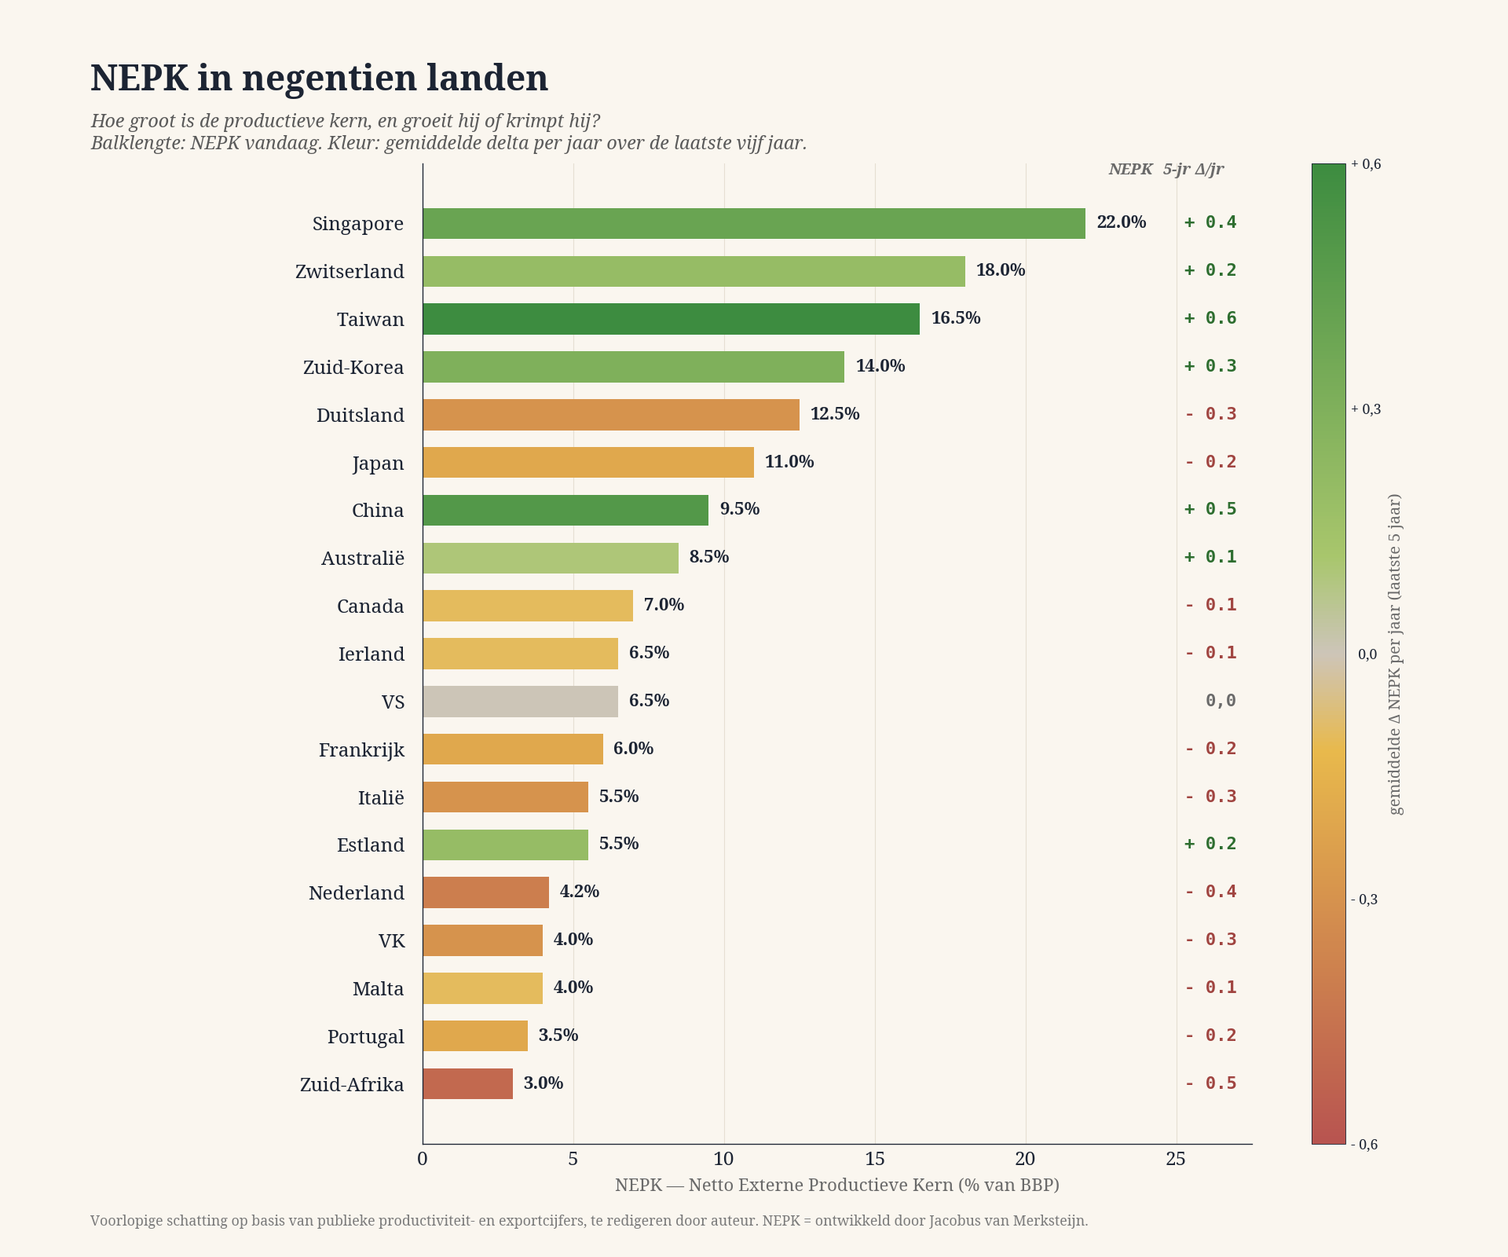
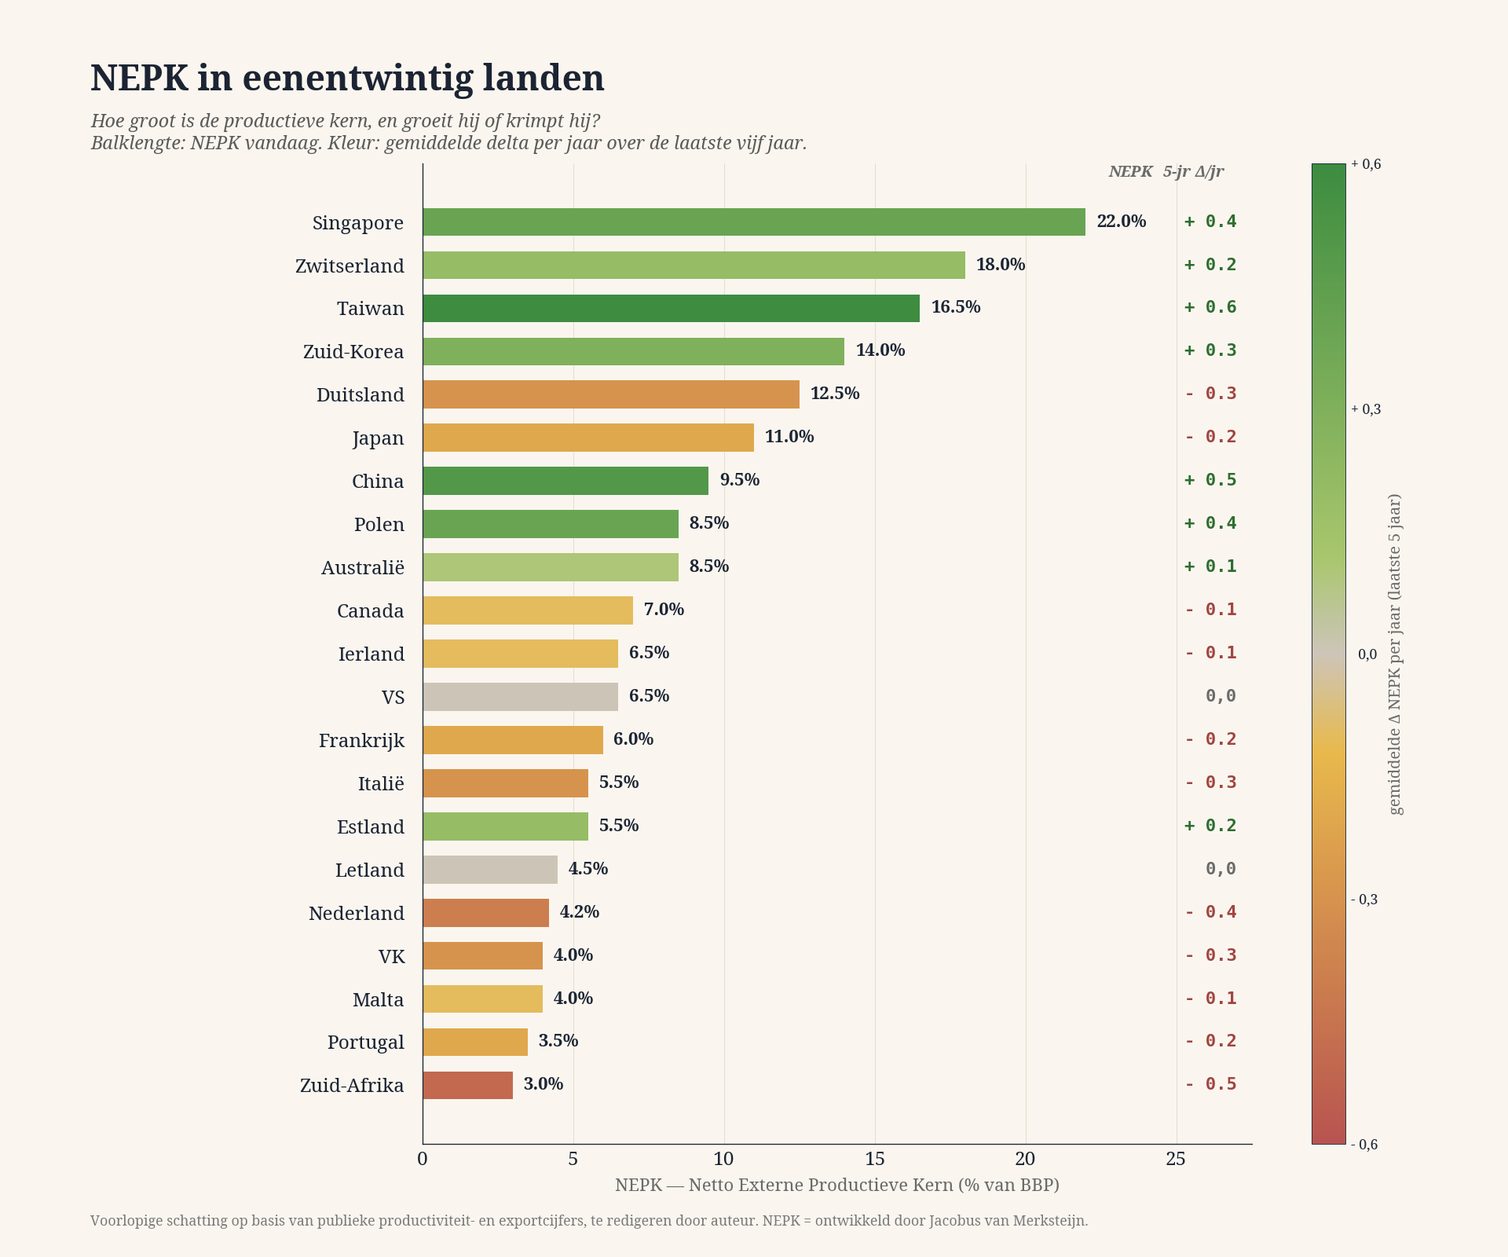
Bern-artikel: +Polen +Letland in grafiek (21 landen), nieuwe sectie Balkenende-norm en ministers werven uit maatschappij

diff --git a/preview/editie-5/nl/artikel-06-zeven-van-bern.html b/preview/editie-5/nl/artikel-06-zeven-van-bern.html
@@ -4,7 +4,7 @@
   <meta charset="UTF-8">
   <meta name="viewport" content="width=device-width, initial-scale=1.0">
   <title>De zeven van Bern — Het Open Vizier · Editie 5 — Juli 2026</title>
-  <meta name="description" content="Een collegiale democratie als sluitsteen — wat Zwitserland in 1848 deed wat wij hadden kunnen overnemen, en wat de NEPK-cijfers van negentien landen ervan laten zien.">
+  <meta name="description" content="Een collegiale democratie als sluitsteen — wat Zwitserland in 1848 deed wat wij hadden kunnen overnemen, en wat de NEPK-cijfers van eenentwintig landen ervan laten zien.">
   <meta name="robots" content="noindex, nofollow">
   <link rel="stylesheet" href="../../../assets/style.css">
   <link rel="stylesheet" href="../assets/style-editie5.css">
@@ -67,7 +67,7 @@
   <div class="slide__text">
     <span class="slide__tag">Editie 5 — Juli 2026 · 06</span>
     <h2 class="slide__heading">De zeven van Bern</h2>
-    <p class="slide__lead">Een collegiale democratie als sluitsteen — wat Zwitserland in 1848 deed wat wij hadden kunnen overnemen, en wat de NEPK-cijfers van negentien landen ervan laten zien.</p>
+    <p class="slide__lead">Een collegiale democratie als sluitsteen — wat Zwitserland in 1848 deed wat wij hadden kunnen overnemen, en wat de NEPK-cijfers van eenentwintig landen ervan laten zien.</p>
     <p class="slide__meta">Sluitsteen · 15 min lezen</p>
     <div class="download-buttons">
       <a class="download-btn" href="../../../assets/downloads-editie-5/editie5_06_zeven_van_bern_nl.pdf">PDF</a>
@@ -114,8 +114,8 @@
 <section class="slide">
   <div class="slide__inner slide__inner--narrow">
     <figure class="diagram">
-      <img src="../../../assets/articles-editie-5/09_nepk.png" alt="NEPK in negentien landen" style="width:100%;height:auto;border-radius:6px;">
-      <figcaption style="margin-top:var(--space-2);font-size:0.9rem;color:#6a6a6a;text-align:center;font-style:italic;">NEPK in negentien landen</figcaption>
+      <img src="../../../assets/articles-editie-5/09_nepk.png" alt="NEPK in eenentwintig landen" style="width:100%;height:auto;border-radius:6px;">
+      <figcaption style="margin-top:var(--space-2);font-size:0.9rem;color:#6a6a6a;text-align:center;font-style:italic;">NEPK in eenentwintig landen</figcaption>
     </figure>
   </div>
 </section>
@@ -123,8 +123,10 @@
 <section class="slide">
   <div class="slide__inner slide__inner--narrow">
     <p>Wat de grafiek toont is geen toeval. Twee landen staan aan de top: <strong>Singapore</strong> en <strong>Zwitserland</strong>. Beide hebben rangorde-bescherming ingebouwd in hun bestuurssysteem — Singapore via een dominant-partij-technocratie met expliciete legitimatie voor lange-termijn-economisch-beleid, Zwitserland via collegiale macht en directe democratie op zaken. Twee tegenovergestelde wegen, hetzelfde resultaat: een productieve kern die groot is en stabiel groeit.</p>
-    <p>In het midden staan Taiwan, Zuid-Korea en — kleurrijk genoeg — China, alle drie met groene delta-getallen die wijzen op een nog groeiende productieve kern, gebouwd op de Japanse kwaliteitsdiscipline die in het eerste artikel werd besproken. Bijzonder is verder de positie van <strong>Estland</strong>: een klein land met slechts 1,3 miljoen inwoners dat als enige EU-lidstaat een positieve delta toont. Estland heeft sinds 2000 zijn productieve kern bewust opgebouwd via een digitaal-economisch ontwerp (e-residency, digitale overheid, ICT-gerichte export) en plukt daar nu de vruchten van.</p>
-    <p>De overige Europese laggards — Duitsland, Frankrijk, Italië, VK, Nederland, Malta, Portugal — tonen oranje en rode kleuren. Niet alleen Nederland verliest productieve kern; vrijwel heel Europa doet het. Maar Nederland staat met <strong>4,2 procent</strong> vooraan in de onderhelft, met de op één na grootste jaarlijkse daling van <strong>0,4 procentpunt per jaar</strong>. Alleen Zuid-Afrika — een land dat door industriële instabiliteit en politieke turbulentie wordt geteisterd — daalt sneller. Opvallend is ook <strong>Ierland</strong>: met een BBP per inwoner ver boven Nederland, scoort het op NEPK juist mager (6,5%), omdat veel van de Ierse productie multinational-doorvoer is die voor de Ierse burger niet als blijvende koopkracht beschikbaar komt.</p>
+    <p>In de bovenste middenmoot staan Taiwan, Zuid-Korea en — kleurrijk genoeg — China, alle drie met groene delta-getallen die wijzen op een nog groeiende productieve kern, gebouwd op de Japanse kwaliteitsdiscipline die in het eerste artikel werd besproken.</p>
+    <p>Bijzonder zijn ook twee EU-laggards die juist <em>niet</em> laggards blijken te zijn. <strong>Polen</strong> scoort met 8,5 procent gelijk aan Australië, maar met een aanmerkelijk grotere jaarlijkse stijging van +0,4 procentpunt — de hoogste in de hele Europese Unie. Polen heeft sinds 2004 zijn maakindustrie systematisch opgebouwd in nauwe samenwerking met de Duitse industrieële keten, en is daarmee de stille winnaar van de Europese herschikking. <strong>Estland</strong> — een klein land met slechts 1,3 miljoen inwoners — toont met +0,2 een vergelijkbare stijging op een lager niveau, opgebouwd via een digitaal-economisch ontwerp (e-residency, digitale overheid, ICT-gerichte export). Polen en Estland zijn de twee Europese landen die in de laatste vijf jaar bewust rangorde-discipline op productiviteit hebben gevoerd, en de cijfers tonen het resultaat.</p>
+    <p>De overige Europese laggards — Duitsland, Frankrijk, Italië, VK, Nederland, Malta, Portugal — tonen oranje en rode kleuren. Niet alleen Nederland verliest productieve kern; vrijwel heel Europa doet het. Maar Nederland staat met <strong>4,2 procent</strong> vooraan in de onderhelft, met de op één na grootste jaarlijkse daling van <strong>0,4 procentpunt per jaar</strong>. Alleen Zuid-Afrika — een land dat door industriële instabiliteit en politieke turbulentie wordt geteisterd — daalt sneller.</p>
+    <p>Letland staat met 4,5 procent en stabiele delta net iets boven Nederland — een Baltisch land dat geen daling vertoont en dus structureel sterker scoort dan ons land in 2026. Opvallend is verder <strong>Ierland</strong>: met een BBP per inwoner ver boven Nederland, scoort het op NEPK juist mager (6,5 procent), omdat veel van de Ierse productie multinational-doorvoer is die voor de Ierse burger niet als blijvende koopkracht beschikbaar komt.</p>
     <p>Dit is geen ranglijst om trots op te zijn. Het is een waarschuwing.</p>
   </div>
 </section>
@@ -145,6 +147,10 @@
     <p><strong>Eerste — Onafhankelijke technocratische instituten met expliciete domeingebonden legitimatie.</strong> Nederland heeft er al een paar: De Nederlandsche Bank, het Centraal Planbureau, de Rekenkamer. Zij werken vanuit afstand tot de politieke dagkoers. Wat in Zwitserland gangbaar is en in Nederland zou kunnen worden uitgebreid: meer domeinen waarin een onafhankelijk instituut op afstand van populariteitsstemmen de eerste-orde-rangorde bewaakt. Een onafhankelijk Onderwijsinstituut. Een onafhankelijke ICT-autoriteit. Een onafhankelijke Stikstof- en Klimaatautoriteit, niet als beleidsmaker maar als rangorde-bewaker — die het kabinet kan dwingen tot expliciete verantwoording wanneer beleid een derde-orde-factor laat domineren.</p>
     <p><strong>Tweede — Directe democratie op concrete vragen.</strong> Niet als vervanging van het parlementaire stelsel, maar als correctie wanneer eerste-orde-vragen door een populariteitsbonus van politici dreigen te worden meegesleept in derde-orde-besluiten. Het bindende correctief referendum — bestaande wetgeving die in 2018 is afgeschaft — zou een eerste stap zijn. Een tweede zou zijn: voor elke wet boven een bepaalde drempel van blijvende impact, een verplichte burgerraadpleging op de specifieke inhoud, niet op de partij.</p>
     <p><strong>Derde — Collegiaal premierschap.</strong> Dit is de zwaarste stap, maar ook de zuiverste. Een Nederlands kabinet bestaat formeel al uit collegiaal opererende ministers — maar in de praktijk is de minister-president dominant geworden. Een ontwerpkeuze om het premierschap, naar Zwitsers model, <strong>jaarlijks te laten rouleren</strong> tussen de partijen van een coalitie, zou de personificatie van macht structureel breken. Geen Rutte-doctrine, geen Schoof-koers — alleen het kabinet als geheel, gelijkwaardig, en het voorzitterschap rouleert.</p>
+    <p><strong>Vierde — Ministers werven uit de maatschappij, niet uit de politiek.</strong> Dit is het meest concrete ontwerp-element en het meest urgent. Vandaag worden Nederlandse ministers gerekruteerd vanuit de Tweede Kamer, vanuit het partijapparaat, of vanuit de kringen die zich aan hen hebben verbonden. Hun deskundigheid op het departement dat zij gaan leiden is doorgaans secundair aan hun politieke loyaliteit. Het gevolg is dat een minister bij aantreden vakinhoudelijk afhankelijk is van zijn eigen ambtenaren — hij weet over het dossier minder dan zijn directeur-generaal. In de praktijk wordt de minister daarmee een ambassadeur van het ambtenarenapparaat naar de Kamer, in plaats van een leidinggevende met inhoudelijk gezag.</p>
+    <p>De oplossing ligt niet in betere training achteraf. Zij ligt in de werving zelf. <strong>Verlaat de Balkenende-norm en zet het ministerschap open als een bedrijfsdirectie-positie.</strong> Een vakgerichte sollicitatieprocedure, met een markt-conform salaris dat de bestuurder uit de top van een industriële onderneming, een ziekenhuis, een infrastructureel bedrijf of een academische instelling kan aantrekken. Aanstelling op basis van bewezen bestuurlijke ervaring en domeinkennis, niet op basis van politieke verkiezingsuitslag. Een minister Financiën die een bank of een groot accountantskantoor heeft geleid; een minister Volksgezondheid die een ziekenhuis-bestuurder is geweest; een minister Onderwijs die een onderwijsinstelling heeft gerund; een minister Klimaat en Groene Groei die de petrochemie of een netbeheerder van binnenuit kent.</p>
+    <p>De Balkenende-norm — ingevoerd in 2006 om publieke beloningen te begrenzen — was bedoeld om excessen te voorkomen, maar heeft als onbedoeld neveneffect gehad dat het Nederlandse ministerschap voor topbestuurders uit de marktsector financieel onaantrekkelijk is geworden. Een directeur die in zijn huidige functie drie tot vijf keer het Balkenende-maximum verdient, zal zijn vak niet voor vier jaar opgeven voor een functie waarin hij financieel terug moet en bovendien zijn vakinhoudelijk overwicht verliest aan zijn ambtenaren. Het resultaat is dat ons land structureel ministers krijgt die hun ambtelijk apparaat <em>niet</em> aankunnen — die de onderdanen zijn van hun eigen directeur-generaal, in plaats van diens leidinggevende.</p>
+    <p>Dit is in vrijwel elk land waarmee we in de NEPK-grafiek concurreren anders geregeld. Zwitserse Bondsraden komen vrijwel altijd uit het bedrijfsleven, het leger of het kantongebied; in Singapore is het ministerschap een topbestuurlijke loopbaan met topbestuurlijke beloning; in Polen en Estland is een ministerie een carrièrestap die je vanuit bestuurservaring binnenrolt. Alleen in Nederland, en in een handvol vergelijkbare West-Europese democratieën, is het ministerschap structureel een politieke beloning in plaats van een vakdirectie. Het zijn niet toevallig dezelfde landen die in de NEPK-grafiek dalen.</p>
     <p>Dit is een radicale gedachte. Het is ook precies wat Zwitserland in 1848 deed, in een tijd waarin het Amerikaanse model als modernste beschouwd werd. Zwitserland keek naar Amerika, zag de ontwerp-fout, en deed het anders.</p>
   </div>
 </section>
@@ -197,8 +203,8 @@
 <section class="slide">
   <div class="slide__inner slide__inner--narrow">
     <figure class="diagram">
-      <img src="../../../assets/articles-editie-5/09_nepk.png" alt="NEPK in negentien landen" style="width:100%;height:auto;border-radius:6px;">
-      <figcaption style="margin-top:var(--space-2);font-size:0.9rem;color:#6a6a6a;text-align:center;font-style:italic;">NEPK in negentien landen</figcaption>
+      <img src="../../../assets/articles-editie-5/09_nepk.png" alt="NEPK in eenentwintig landen" style="width:100%;height:auto;border-radius:6px;">
+      <figcaption style="margin-top:var(--space-2);font-size:0.9rem;color:#6a6a6a;text-align:center;font-style:italic;">NEPK in eenentwintig landen</figcaption>
     </figure>
   </div>
 </section>
@@ -206,8 +212,10 @@
 <section class="slide">
   <div class="slide__inner slide__inner--narrow">
     <p>Wat de grafiek toont is geen toeval. Twee landen staan aan de top: <strong>Singapore</strong> en <strong>Zwitserland</strong>. Beide hebben rangorde-bescherming ingebouwd in hun bestuurssysteem — Singapore via een dominant-partij-technocratie met expliciete legitimatie voor lange-termijn-economisch-beleid, Zwitserland via collegiale macht en directe democratie op zaken. Twee tegenovergestelde wegen, hetzelfde resultaat: een productieve kern die groot is en stabiel groeit.</p>
-    <p>In het midden staan Taiwan, Zuid-Korea en — kleurrijk genoeg — China, alle drie met groene delta-getallen die wijzen op een nog groeiende productieve kern, gebouwd op de Japanse kwaliteitsdiscipline die in het eerste artikel werd besproken. Bijzonder is verder de positie van <strong>Estland</strong>: een klein land met slechts 1,3 miljoen inwoners dat als enige EU-lidstaat een positieve delta toont. Estland heeft sinds 2000 zijn productieve kern bewust opgebouwd via een digitaal-economisch ontwerp (e-residency, digitale overheid, ICT-gerichte export) en plukt daar nu de vruchten van.</p>
-    <p>De overige Europese laggards — Duitsland, Frankrijk, Italië, VK, Nederland, Malta, Portugal — tonen oranje en rode kleuren. Niet alleen Nederland verliest productieve kern; vrijwel heel Europa doet het. Maar Nederland staat met <strong>4,2 procent</strong> vooraan in de onderhelft, met de op één na grootste jaarlijkse daling van <strong>0,4 procentpunt per jaar</strong>. Alleen Zuid-Afrika — een land dat door industriële instabiliteit en politieke turbulentie wordt geteisterd — daalt sneller. Opvallend is ook <strong>Ierland</strong>: met een BBP per inwoner ver boven Nederland, scoort het op NEPK juist mager (6,5%), omdat veel van de Ierse productie multinational-doorvoer is die voor de Ierse burger niet als blijvende koopkracht beschikbaar komt.</p>
+    <p>In de bovenste middenmoot staan Taiwan, Zuid-Korea en — kleurrijk genoeg — China, alle drie met groene delta-getallen die wijzen op een nog groeiende productieve kern, gebouwd op de Japanse kwaliteitsdiscipline die in het eerste artikel werd besproken.</p>
+    <p>Bijzonder zijn ook twee EU-laggards die juist <em>niet</em> laggards blijken te zijn. <strong>Polen</strong> scoort met 8,5 procent gelijk aan Australië, maar met een aanmerkelijk grotere jaarlijkse stijging van +0,4 procentpunt — de hoogste in de hele Europese Unie. Polen heeft sinds 2004 zijn maakindustrie systematisch opgebouwd in nauwe samenwerking met de Duitse industrieële keten, en is daarmee de stille winnaar van de Europese herschikking. <strong>Estland</strong> — een klein land met slechts 1,3 miljoen inwoners — toont met +0,2 een vergelijkbare stijging op een lager niveau, opgebouwd via een digitaal-economisch ontwerp (e-residency, digitale overheid, ICT-gerichte export). Polen en Estland zijn de twee Europese landen die in de laatste vijf jaar bewust rangorde-discipline op productiviteit hebben gevoerd, en de cijfers tonen het resultaat.</p>
+    <p>De overige Europese laggards — Duitsland, Frankrijk, Italië, VK, Nederland, Malta, Portugal — tonen oranje en rode kleuren. Niet alleen Nederland verliest productieve kern; vrijwel heel Europa doet het. Maar Nederland staat met <strong>4,2 procent</strong> vooraan in de onderhelft, met de op één na grootste jaarlijkse daling van <strong>0,4 procentpunt per jaar</strong>. Alleen Zuid-Afrika — een land dat door industriële instabiliteit en politieke turbulentie wordt geteisterd — daalt sneller.</p>
+    <p>Letland staat met 4,5 procent en stabiele delta net iets boven Nederland — een Baltisch land dat geen daling vertoont en dus structureel sterker scoort dan ons land in 2026. Opvallend is verder <strong>Ierland</strong>: met een BBP per inwoner ver boven Nederland, scoort het op NEPK juist mager (6,5 procent), omdat veel van de Ierse productie multinational-doorvoer is die voor de Ierse burger niet als blijvende koopkracht beschikbaar komt.</p>
     <p>Dit is geen ranglijst om trots op te zijn. Het is een waarschuwing.</p>
   </div>
 </section>
@@ -228,6 +236,10 @@
     <p><strong>Eerste — Onafhankelijke technocratische instituten met expliciete domeingebonden legitimatie.</strong> Nederland heeft er al een paar: De Nederlandsche Bank, het Centraal Planbureau, de Rekenkamer. Zij werken vanuit afstand tot de politieke dagkoers. Wat in Zwitserland gangbaar is en in Nederland zou kunnen worden uitgebreid: meer domeinen waarin een onafhankelijk instituut op afstand van populariteitsstemmen de eerste-orde-rangorde bewaakt. Een onafhankelijk Onderwijsinstituut. Een onafhankelijke ICT-autoriteit. Een onafhankelijke Stikstof- en Klimaatautoriteit, niet als beleidsmaker maar als rangorde-bewaker — die het kabinet kan dwingen tot expliciete verantwoording wanneer beleid een derde-orde-factor laat domineren.</p>
     <p><strong>Tweede — Directe democratie op concrete vragen.</strong> Niet als vervanging van het parlementaire stelsel, maar als correctie wanneer eerste-orde-vragen door een populariteitsbonus van politici dreigen te worden meegesleept in derde-orde-besluiten. Het bindende correctief referendum — bestaande wetgeving die in 2018 is afgeschaft — zou een eerste stap zijn. Een tweede zou zijn: voor elke wet boven een bepaalde drempel van blijvende impact, een verplichte burgerraadpleging op de specifieke inhoud, niet op de partij.</p>
     <p><strong>Derde — Collegiaal premierschap.</strong> Dit is de zwaarste stap, maar ook de zuiverste. Een Nederlands kabinet bestaat formeel al uit collegiaal opererende ministers — maar in de praktijk is de minister-president dominant geworden. Een ontwerpkeuze om het premierschap, naar Zwitsers model, <strong>jaarlijks te laten rouleren</strong> tussen de partijen van een coalitie, zou de personificatie van macht structureel breken. Geen Rutte-doctrine, geen Schoof-koers — alleen het kabinet als geheel, gelijkwaardig, en het voorzitterschap rouleert.</p>
+    <p><strong>Vierde — Ministers werven uit de maatschappij, niet uit de politiek.</strong> Dit is het meest concrete ontwerp-element en het meest urgent. Vandaag worden Nederlandse ministers gerekruteerd vanuit de Tweede Kamer, vanuit het partijapparaat, of vanuit de kringen die zich aan hen hebben verbonden. Hun deskundigheid op het departement dat zij gaan leiden is doorgaans secundair aan hun politieke loyaliteit. Het gevolg is dat een minister bij aantreden vakinhoudelijk afhankelijk is van zijn eigen ambtenaren — hij weet over het dossier minder dan zijn directeur-generaal. In de praktijk wordt de minister daarmee een ambassadeur van het ambtenarenapparaat naar de Kamer, in plaats van een leidinggevende met inhoudelijk gezag.</p>
+    <p>De oplossing ligt niet in betere training achteraf. Zij ligt in de werving zelf. <strong>Verlaat de Balkenende-norm en zet het ministerschap open als een bedrijfsdirectie-positie.</strong> Een vakgerichte sollicitatieprocedure, met een markt-conform salaris dat de bestuurder uit de top van een industriële onderneming, een ziekenhuis, een infrastructureel bedrijf of een academische instelling kan aantrekken. Aanstelling op basis van bewezen bestuurlijke ervaring en domeinkennis, niet op basis van politieke verkiezingsuitslag. Een minister Financiën die een bank of een groot accountantskantoor heeft geleid; een minister Volksgezondheid die een ziekenhuis-bestuurder is geweest; een minister Onderwijs die een onderwijsinstelling heeft gerund; een minister Klimaat en Groene Groei die de petrochemie of een netbeheerder van binnenuit kent.</p>
+    <p>De Balkenende-norm — ingevoerd in 2006 om publieke beloningen te begrenzen — was bedoeld om excessen te voorkomen, maar heeft als onbedoeld neveneffect gehad dat het Nederlandse ministerschap voor topbestuurders uit de marktsector financieel onaantrekkelijk is geworden. Een directeur die in zijn huidige functie drie tot vijf keer het Balkenende-maximum verdient, zal zijn vak niet voor vier jaar opgeven voor een functie waarin hij financieel terug moet en bovendien zijn vakinhoudelijk overwicht verliest aan zijn ambtenaren. Het resultaat is dat ons land structureel ministers krijgt die hun ambtelijk apparaat <em>niet</em> aankunnen — die de onderdanen zijn van hun eigen directeur-generaal, in plaats van diens leidinggevende.</p>
+    <p>Dit is in vrijwel elk land waarmee we in de NEPK-grafiek concurreren anders geregeld. Zwitserse Bondsraden komen vrijwel altijd uit het bedrijfsleven, het leger of het kantongebied; in Singapore is het ministerschap een topbestuurlijke loopbaan met topbestuurlijke beloning; in Polen en Estland is een ministerie een carrièrestap die je vanuit bestuurservaring binnenrolt. Alleen in Nederland, en in een handvol vergelijkbare West-Europese democratieën, is het ministerschap structureel een politieke beloning in plaats van een vakdirectie. Het zijn niet toevallig dezelfde landen die in de NEPK-grafiek dalen.</p>
     <p>Dit is een radicale gedachte. Het is ook precies wat Zwitserland in 1848 deed, in een tijd waarin het Amerikaanse model als modernste beschouwd werd. Zwitserland keek naar Amerika, zag de ontwerp-fout, en deed het anders.</p>
   </div>
 </section>

diff --git a/preview/editie-5/nl/index.html b/preview/editie-5/nl/index.html
@@ -107,7 +107,7 @@
         <div class="article-card__image"><img src="../../../assets/articles-editie-5/09_nepk.png" alt=""></div>
         <div class="article-card__kicker">06 · Sluitsteen</div>
         <h3 class="article-card__title">De zeven van Bern</h3>
-        <p class="article-card__lede">Een collegiale democratie als sluitsteen — wat Zwitserland in 1848 deed wat wij hadden kunnen overnemen, en wat de NEPK-cijfers van negentien landen ervan laten zien.</p>
+        <p class="article-card__lede">Een collegiale democratie als sluitsteen — wat Zwitserland in 1848 deed wat wij hadden kunnen overnemen, en wat de NEPK-cijfers van eenentwintig landen ervan laten zien.</p>
         <div class="article-card__meta">15 min lezen</div>
       </a>
       <a href="artikel-07-afwijkers.html" class="article-card">
